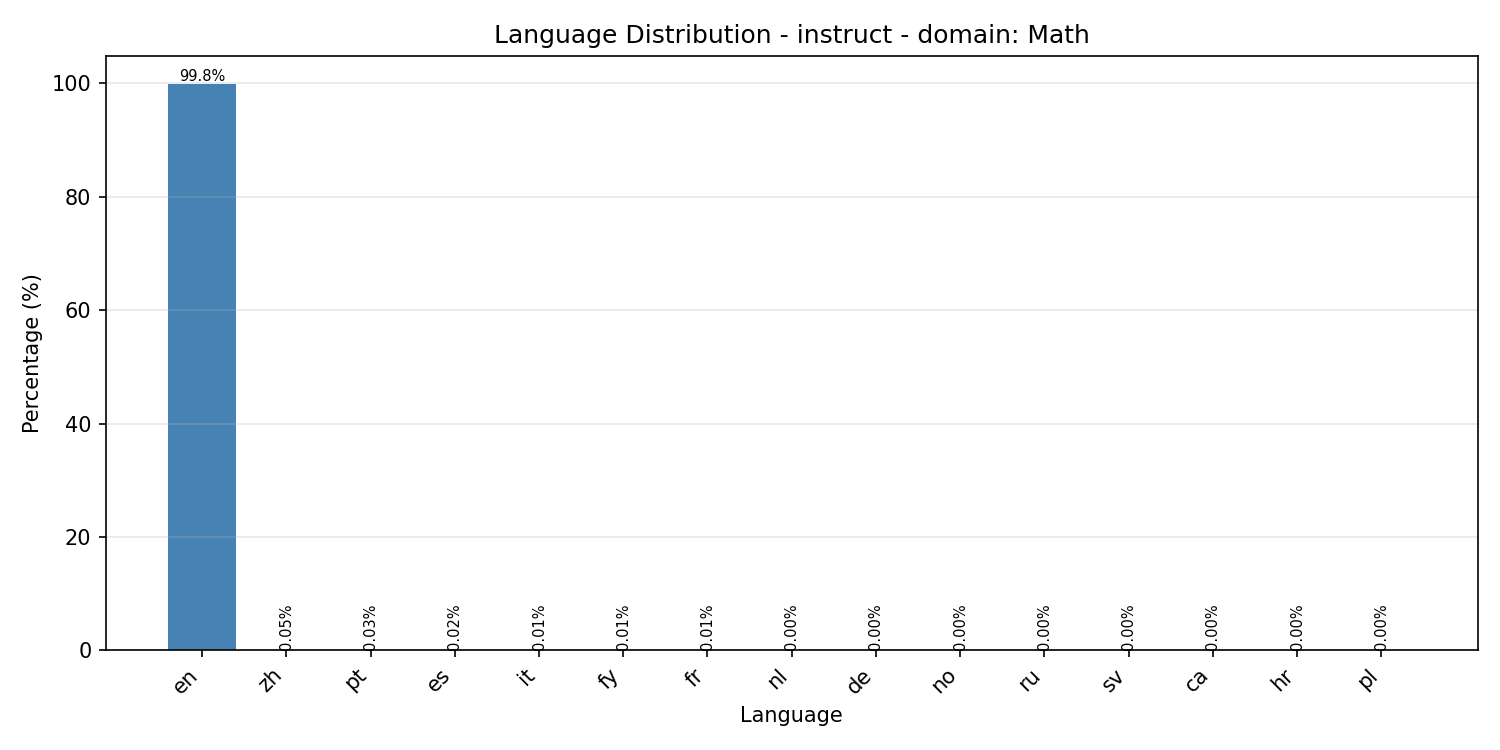
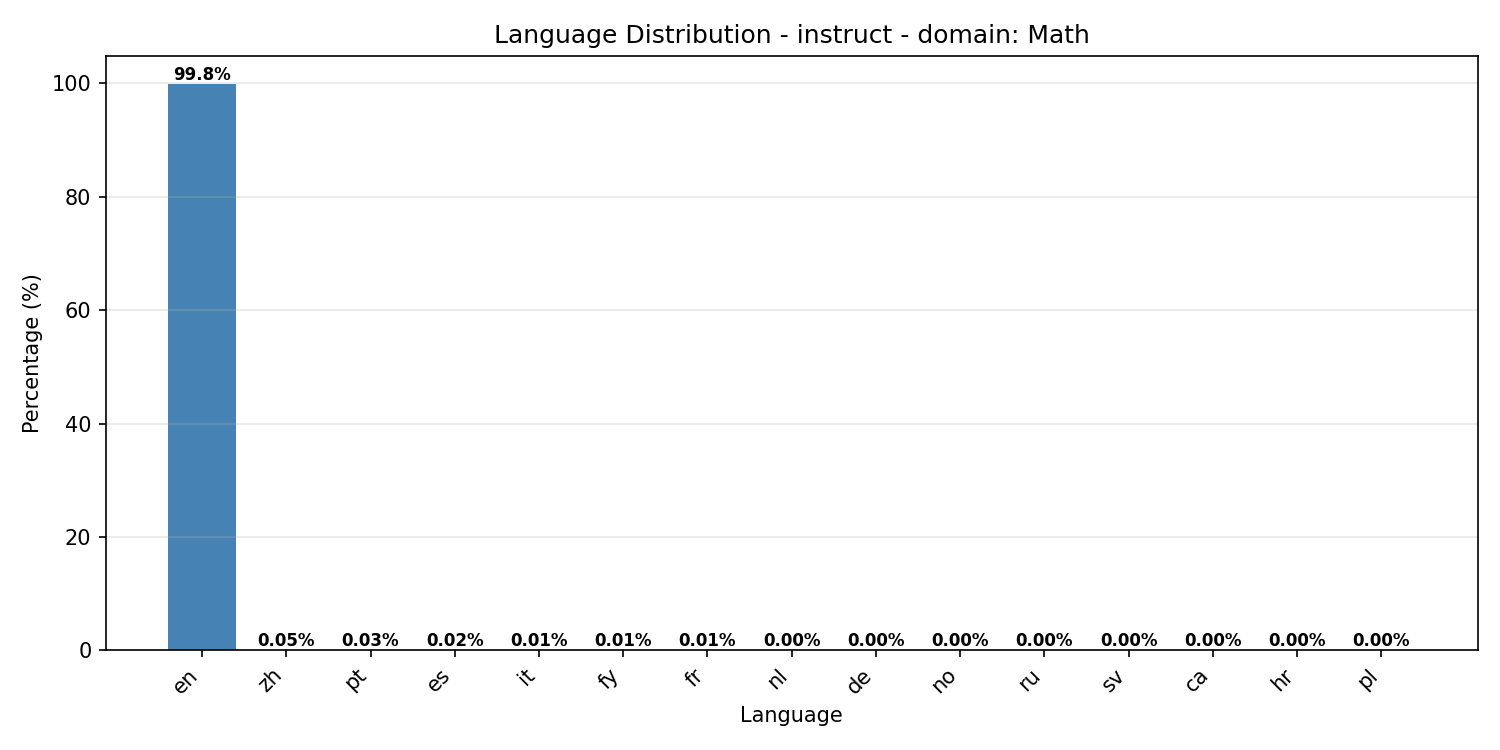
Split language distribution into two panels with readable labels

diff --git a/oellm/analysis/dolci_distribution/detect_language_distribution.py b/oellm/analysis/dolci_distribution/detect_language_distribution.py
@@ -231,13 +231,27 @@ def merge_shard_results(shard_results: list[dict]) -> dict:
     }
 
 
+def _add_bar_labels(ax, bars, pcts):
+    """Add percentage labels on top of bars."""
+    for bar, pct in zip(bars, pcts):
+        if pct > 0:
+            label = f"{pct:.1f}%" if pct >= 1 else f"{pct:.2f}%"
+            ax.text(
+                bar.get_x() + bar.get_width() / 2,
+                bar.get_height(),
+                label,
+                ha="center",
+                va="bottom",
+                fontsize=8,
+                fontweight="bold",
+            )
+
+
 def plot_language_distribution(
     results: dict[str, dict],
     output_dir: Path,
 ) -> None:
-    """Generate overall language distribution bar chart comparing datasets."""
-    fig, ax = plt.subplots(figsize=(14, 6))
-
+    """Generate language distribution with two panels: all languages + zoomed non-English."""
     # Collect all languages across datasets, sorted by total count
     all_lang_counts: Counter = Counter()
     for name, result in results.items():
@@ -245,35 +259,44 @@ def plot_language_distribution(
             all_lang_counts[lang] += count
 
     top_langs = [lang for lang, _ in all_lang_counts.most_common(TOP_N_LANGUAGES)]
+    non_en_langs = [l for l in top_langs if l != "en"]
 
-    x = np.arange(len(top_langs))
-    width = 0.35
     dataset_names = list(results.keys())
+    width = 0.35
 
+    fig, (ax_all, ax_zoom) = plt.subplots(2, 1, figsize=(16, 10))
+
+    # --- Top panel: all languages ---
+    x = np.arange(len(top_langs))
     for i, name in enumerate(dataset_names):
         pcts = [results[name]["language_percentages"].get(lang, 0) for lang in top_langs]
         offset = (i - (len(dataset_names) - 1) / 2) * width
-        bars = ax.bar(x + offset, pcts, width, label=name)
-        for bar, pct in zip(bars, pcts):
-            if pct > 0:
-                label = f"{pct:.1f}%" if pct >= 1 else f"{pct:.2f}%"
-                ax.text(
-                    bar.get_x() + bar.get_width() / 2,
-                    bar.get_height(),
-                    label,
-                    ha="center",
-                    va="bottom",
-                    fontsize=7,
-                    rotation=90 if pct < 1 else 0,
-                )
+        bars = ax_all.bar(x + offset, pcts, width, label=name)
+        _add_bar_labels(ax_all, bars, pcts)
 
-    ax.set_xlabel("Language")
-    ax.set_ylabel("Percentage (%)")
-    ax.set_title("Language Distribution in Dolci Datasets")
-    ax.set_xticks(x)
-    ax.set_xticklabels(top_langs, rotation=45, ha="right")
-    ax.legend()
-    ax.grid(axis="y", alpha=0.3)
+    ax_all.set_ylabel("Percentage (%)")
+    ax_all.set_title("Language Distribution in Dolci Datasets")
+    ax_all.set_xticks(x)
+    ax_all.set_xticklabels(top_langs, rotation=45, ha="right")
+    ax_all.legend()
+    ax_all.grid(axis="y", alpha=0.3)
+
+    # --- Bottom panel: non-English zoom ---
+    x2 = np.arange(len(non_en_langs))
+    for i, name in enumerate(dataset_names):
+        pcts = [results[name]["language_percentages"].get(lang, 0) for lang in non_en_langs]
+        offset = (i - (len(dataset_names) - 1) / 2) * width
+        bars = ax_zoom.bar(x2 + offset, pcts, width, label=name)
+        _add_bar_labels(ax_zoom, bars, pcts)
+
+    ax_zoom.set_xlabel("Language")
+    ax_zoom.set_ylabel("Percentage (%)")
+    ax_zoom.set_title("Non-English Languages (zoomed)")
+    ax_zoom.set_xticks(x2)
+    ax_zoom.set_xticklabels(non_en_langs, rotation=45, ha="right")
+    ax_zoom.legend()
+    ax_zoom.grid(axis="y", alpha=0.3)
+
     plt.tight_layout()
     fig.savefig(output_dir / "dolci_language_distribution.png", dpi=150)
     plt.close(fig)
@@ -328,14 +351,8 @@ def plot_per_group_distribution(
         pcts = [item[1] / total * 100 for item in top_items]
 
         fig, ax = plt.subplots(figsize=(10, 5))
-        ax.bar(langs, pcts, color="steelblue")
-        for i, (lang, pct) in enumerate(zip(langs, pcts)):
-            if pct > 0:
-                label = f"{pct:.1f}%" if pct >= 1 else f"{pct:.2f}%"
-                ax.text(
-                    i, pct, label, ha="center", va="bottom", fontsize=7,
-                    rotation=90 if pct < 1 else 0,
-                )
+        bars = ax.bar(langs, pcts, color="steelblue")
+        _add_bar_labels(ax, bars, pcts)
 
         safe_name = group_name.replace("/", "_").replace(" ", "_")
         ax.set_title(f"Language Distribution - {dataset_name} - {group_type}: {group_name}")
